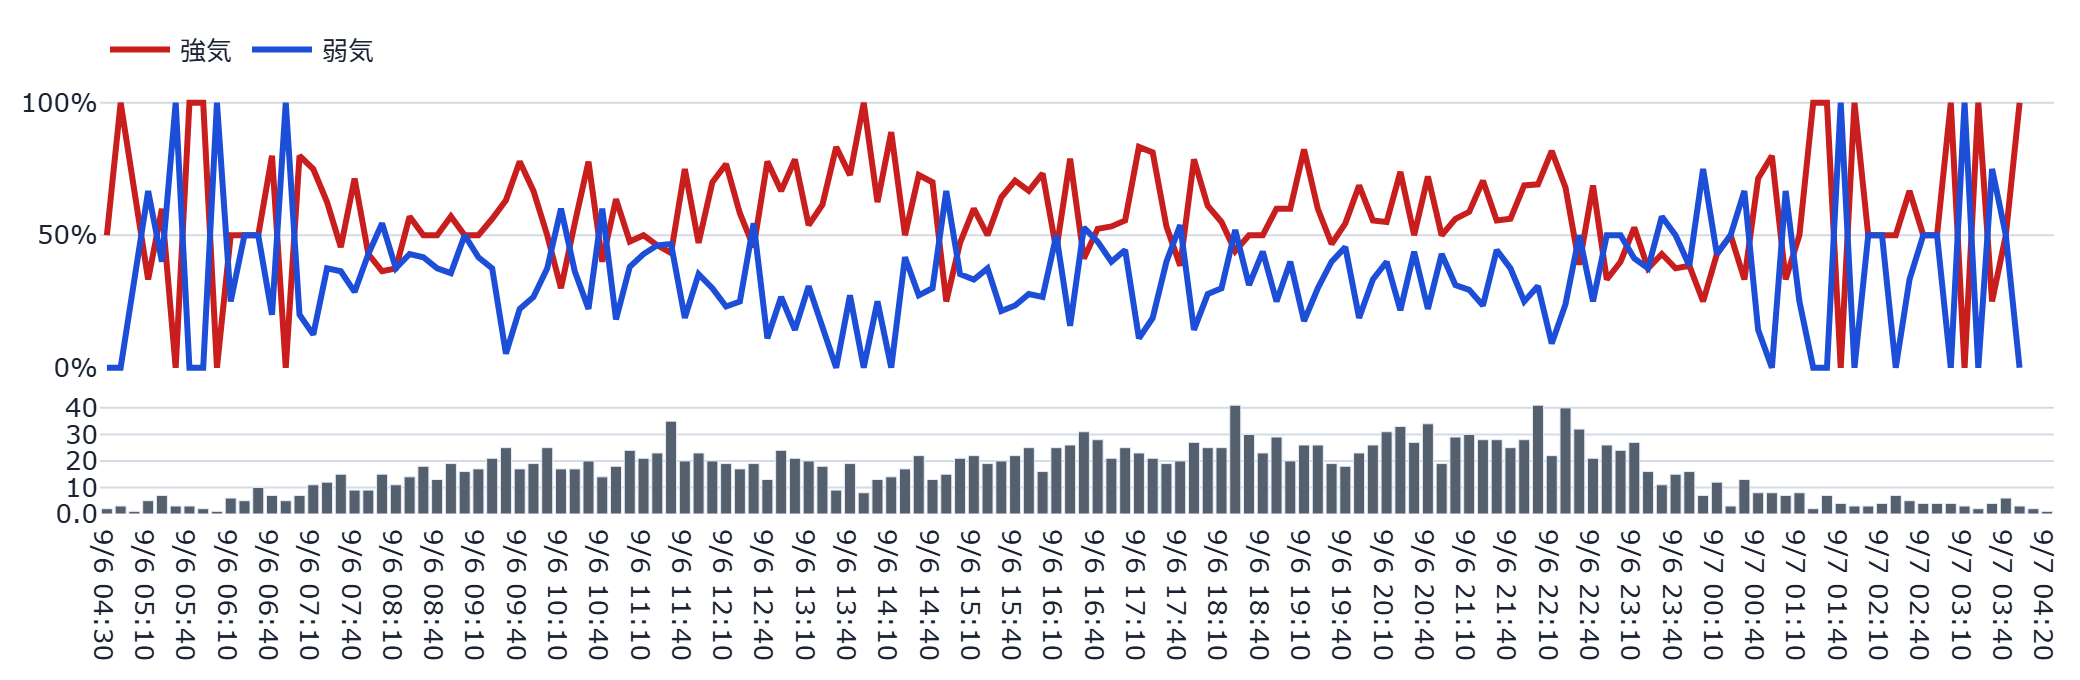
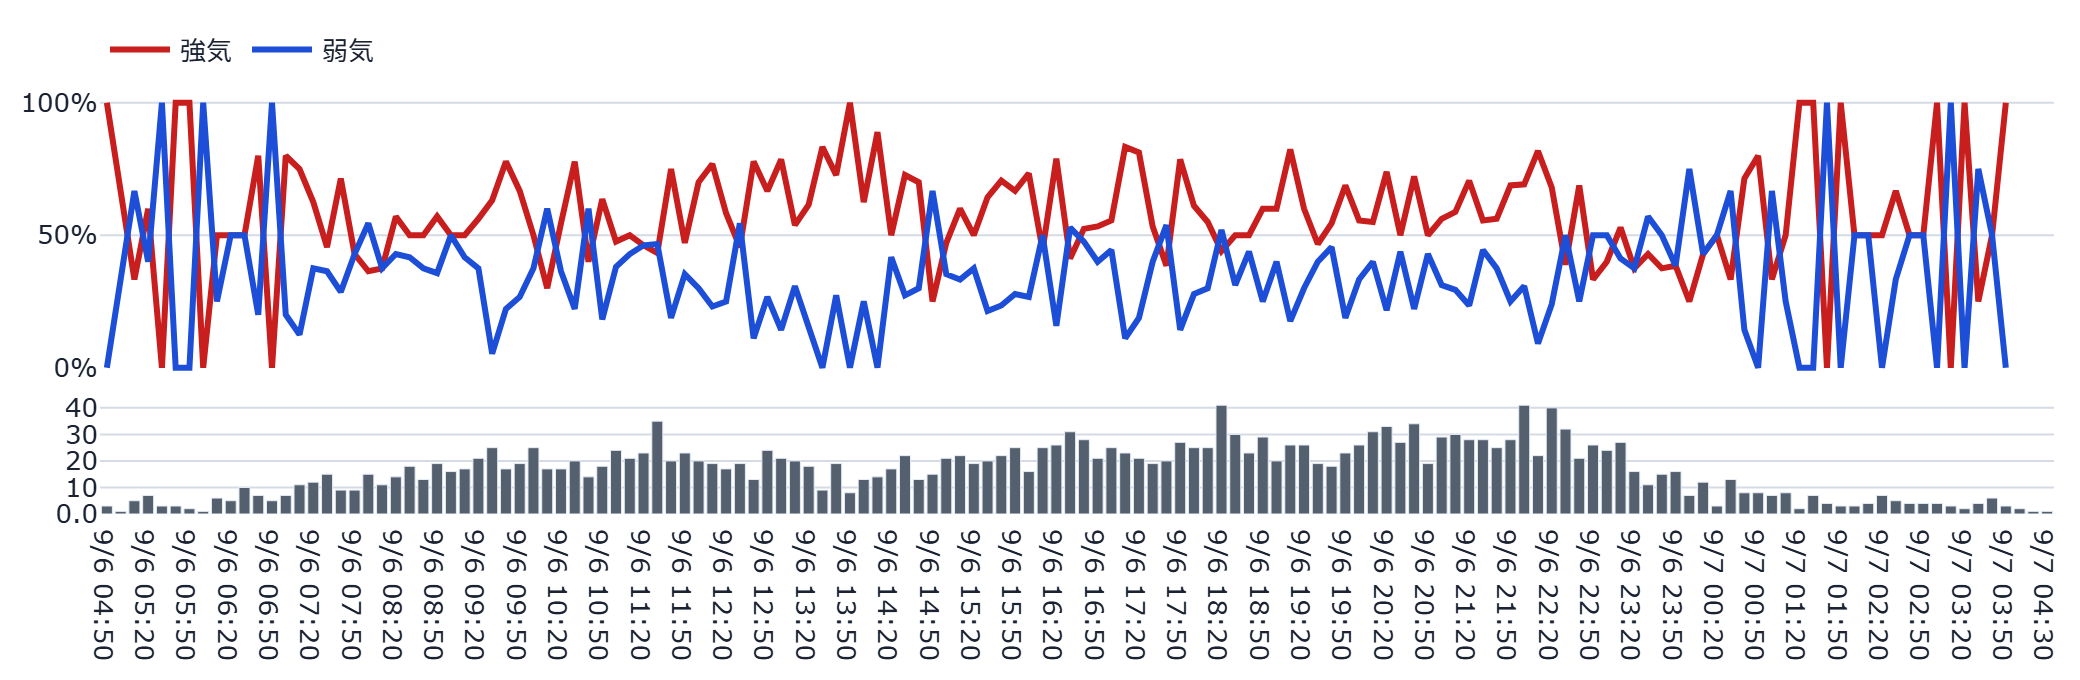
auto: refresh static dashboard (2026-09-07 04:46:47 JST)

Changed region(s): [[0.0312, 0.1544, 1.0, 0.5559], [0.0625, 0.5868, 0.9688, 0.7721], [0.0625, 0.9265, 0.9688, 0.9574]]

diff --git a/docs/index.html b/docs/index.html
@@ -125,7 +125,7 @@
         <span class="price">54,460円</span>
         <span class="chg" style="color:#8B94A3">—</span>
       </div>
-      <p class="caption">更新時刻: 2026-09-07T04:34:23（データは1分間隔で自動生成され、このページも
+      <p class="caption">更新時刻: 2026-09-07T04:44:21（データは1分間隔で自動生成され、このページも
       60秒毎に自動再読み込みされます）</p>
       
       <p id='visit-count-badge' class='caption'>👀 累計閲覧数: 2,968</p>
@@ -170,7 +170,7 @@
 <div class='signal-row'><div class='signal-name'>イナゴ語彙(euphoria)<div class='signal-desc'>「爆上げ」「握力」等、熱狂・便乗を示す語彙が投稿にどれだけ含まれるか。</div></div><div class='signal-meta'><div class='signal-note'>euphoria指数3.7/100投稿</div><div><span style='display:inline-block;border-radius:999px;padding:2px 10px;font-size:.82em;font-weight:600;color:#fff;background:#15803D;white-space:nowrap'>OK (現在値3.70 / 閾値&gt;=5.5/100投稿)</span></div><div class='signal-spark'><figure><img src='images/spark_signal_2.png' alt='イナゴ語彙(euphoria)の推移' loading='lazy'></figure></div></div></div>
 <div class='signal-row'><div class='signal-name'>ネームド集中<div class='signal-desc'>特定の常連投稿者(ハッシュ化ID)に投稿が偏っていないか(少数の声が目立ちすぎていないか)。</div></div><div class='signal-meta'><div class='signal-note'>上位5人シェア18%</div><div><span style='display:inline-block;border-radius:999px;padding:2px 10px;font-size:.82em;font-weight:600;color:#fff;background:#C81E1E;white-space:nowrap'>発火 (現在値0.18 / 閾値&gt;=0.1)</span></div><div class='signal-spark'><figure><img src='images/spark_signal_3.png' alt='ネームド集中の推移' loading='lazy'></figure></div></div></div>
 <div class='signal-row'><div class='signal-name'>他銘柄混入率<div class='signal-desc'>本銘柄の掲示板で他の銘柄コードへの言及がどれだけ多いか(関心が他へ移りつつあるサイン)。</div></div><div class='signal-meta'><div class='signal-note'>他銘柄言及5% (関心離散のサイン)</div><div><span style='display:inline-block;border-radius:999px;padding:2px 10px;font-size:.82em;font-weight:600;color:#fff;background:#15803D;white-space:nowrap'>OK (現在値0.05 / 閾値&gt;=0.11)</span></div><div class='signal-spark'><figure><img src='images/spark_signal_4.png' alt='他銘柄混入率の推移' loading='lazy'></figure></div></div></div>
-<div class='signal-row'><div class='signal-name'>暴落煽り語彙<div class='signal-desc'>「暴落」「終わった」等、悲観・煽りを示す語彙が投稿にどれだけ含まれるか。</div></div><div class='signal-meta'><div class='signal-note'>煽り指数4.5/100投稿</div><div><span style='display:inline-block;border-radius:999px;padding:2px 10px;font-size:.82em;font-weight:600;color:#fff;background:#C2570B;white-space:nowrap'>警戒 (現在値4.50 / 閾値&gt;=5.0/100投稿)</span></div><div class='signal-spark'><figure><img src='images/spark_signal_5.png' alt='暴落煽り語彙の推移' loading='lazy'></figure></div></div></div>
+<div class='signal-row'><div class='signal-name'>暴落煽り語彙<div class='signal-desc'>「暴落」「終わった」等、悲観・煽りを示す語彙が投稿にどれだけ含まれるか。</div></div><div class='signal-meta'><div class='signal-note'>煽り指数4.4/100投稿</div><div><span style='display:inline-block;border-radius:999px;padding:2px 10px;font-size:.82em;font-weight:600;color:#fff;background:#C2570B;white-space:nowrap'>警戒 (現在値4.40 / 閾値&gt;=5.0/100投稿)</span></div><div class='signal-spark'><figure><img src='images/spark_signal_5.png' alt='暴落煽り語彙の推移' loading='lazy'></figure></div></div></div>
 <div class='signal-row'><div class='signal-name'>阿鼻叫喚(セリクラ)<div class='signal-desc'>株価が安値圏にある中で悲観語彙が急増しているか(セリングクライマックスの兆候)。</div></div><div class='signal-meta'><div class='signal-note'>阿鼻叫喚スコア0.0 安値圏外</div><div><span style='display:inline-block;border-radius:999px;padding:2px 10px;font-size:.82em;font-weight:600;color:#fff;background:#15803D;white-space:nowrap'>OK (現在値0.00 / 閾値&gt;30)</span></div><div class='signal-spark'><figure><img src='images/spark_signal_6.png' alt='阿鼻叫喚(セリクラ)の推移' loading='lazy'></figure></div></div></div>
 <div class='signal-row'><div class='signal-name'>話題枯れ<div class='signal-desc'>過去の平均と比べて本日の投稿数が著しく少ないか(閑散・関心低下のサイン)。</div></div><div class='signal-meta'><div class='signal-note'>投稿数z=-1.23 (負=閑散)</div><div><span style='display:inline-block;border-radius:999px;padding:2px 10px;font-size:.82em;font-weight:600;color:#fff;background:#C81E1E;white-space:nowrap'>発火 (現在値-1.23 / 閾値z&lt;-1)</span></div><div class='signal-spark'><figure><img src='images/spark_signal_7.png' alt='話題枯れの推移' loading='lazy'></figure></div></div></div>
 <div class='signal-row'><div class='signal-name'>投稿サージ<div class='signal-desc'>過去の平均と比べて本日の投稿数が著しく多いか(急な注目集中のサイン)。</div></div><div class='signal-meta'><div class='signal-note'>投稿数z=-1.23 (量→ボラ予測が文献の主結果)</div><div><span style='display:inline-block;border-radius:999px;padding:2px 10px;font-size:.82em;font-weight:600;color:#fff;background:#15803D;white-space:nowrap'>OK (現在値-1.23 / 閾値z&gt;2)</span></div><div class='signal-spark'><figure><img src='images/spark_signal_8.png' alt='投稿サージの推移' loading='lazy'></figure></div></div></div></div>
@@ -218,22 +218,22 @@
       </div>
 
       <h2>🤖 AI考察</h2>
-      <div class='metric-row'><div class='metric-card'><div class='metric-label'>株価</div><div class='metric-value'>54,460円</div><div class='metric-delta'>+0円</div></div><div class='metric-card'><div class='metric-label'>強気比率</div><div class='metric-value'>53.3%</div><div class='metric-delta'>+0.0pt</div></div><div class='metric-card'><div class='metric-label'>弱気比率</div><div class='metric-value'>40.0%</div><div class='metric-delta'>+0.0pt</div></div></div><p class='caption'>前回集計(2026-09-07T04:29:14)との比較</p>
-      <div class='ai-box'>本日の寄り付き前におけるキオクシアホールディングス（285A）の掲示板センチメントを分析します。<br>
+      <div class='metric-row'><div class='metric-card'><div class='metric-label'>株価</div><div class='metric-value'>54,460円</div><div class='metric-delta'>+0円</div></div><div class='metric-card'><div class='metric-label'>強気比率</div><div class='metric-value'>53.3%</div><div class='metric-delta'>+0.0pt</div></div><div class='metric-card'><div class='metric-label'>弱気比率</div><div class='metric-value'>40.0%</div><div class='metric-delta'>+0.0pt</div></div></div><p class='caption'>前回集計(2026-09-07T04:34:23)との比較</p>
+      <div class='ai-box'>本日の寄り付きを前にしたキオクシアホールディングス（285A）の掲示板におけるセンチメントデータに基づき、現状の市場心理を分析します。<br>
 <br>
-直近の価格推移と掲示板の反応を照らし合わせると、非常に特徴的な動きが見て取れます。まず注目すべきは、強気比率が53.3%と過半数を超えつつも、過熱度スコア（18.7）やイナゴ語彙指数が平常範囲内にある点です。通常、強気姿勢が目立つ局面では過熱を伴うことが多いですが、現在は「熱狂」というよりは、落ち着いたトーンでの期待感、あるいは現状の価格水準に対する一定の支持がある状態と推察されます。<br>
+直近の日次推移を見ると、価格と強気比率は連動しながら推移しており、特に9月4日には前週比で強気比率が大きく上昇し、現在の水準を形成しています。最新の集計では強気比率が53.3%となっており、過熱度スコアは18.7と低水準に留まっていることから、掲示板上での期待感は高まりつつあるものの、まだ統計的な「熱狂」には至っていない状態が見て取れます。<br>
 <br>
-一方で、シグナル発火状況には特筆すべき変化があります。「ネームド集中」が発火し、「話題枯れ」も同時に発火している点は重要です。これは、特定の熱心な投稿者層による議論が中心となっており、新規の関心が広がる「拡散」のフェーズではなく、限定的なコミュニティ内での深化が進んでいることを示唆しています。また、前回集計から「暴落煽り語彙」が警戒水準に上昇していることは、強気な姿勢を維持する一方で、一部でリスクに対する敏感な反応や、ネガティブなシナリオへの備えが意識され始めている心理的背景を映し出している可能性があります。<br>
+一方で、シグナル発火状況を詳細に見ると、特筆すべき変化が確認できます。前回取引日と比較して「ネームド集中」が警戒から発火へと移行しており、特定の意見を持つ層の存在感が強まっていることが示唆されます。また、「話題枯れ」の発火や投稿速度の低さは、広範な投資家層による活発な議論よりも、限定的なコミュニティ内での反応に終始している可能性を推測させます。さらに「暴落煽り語彙」が警戒水準にあることは、強気な姿勢の一方で、一部でネガティブな反応を引き起こす要因も潜在していることを示しています。<br>
 <br>
-ボラティリティについては現在「calibrating（較正中）」となっており、センチメントの強さとボラの相関を断定的に判断するには慎重さが必要です。しかし、前営業日からの変化を見ると、過熱度が低下しつつもネームド集中が強まっていることから、掲示板内の議論はより内省的・専門的な内容へとシフトしている可能性が見て取れます。<br>
+ボラティリティのレジーム帯は現在「calibrating（較正中）」となっており、現在のセンチメントの安定感と相関する明確なボラティリティの基準が確定していない状況です。また、取引時間外のPTSや米国ADRでは前営業日の終値を大きく上回る動きを見せており、この外部環境の変化が寄り付き後の掲示板の反応にどう影響するか注目されます。<br>
 <br>
-なお、取引時間外のPTSや米国ADRでは、前日の終値を大きく上回る動き（約6%超）を記録しています。これら市場外の動向と、掲示板上の「話題枯れ」という静かなセンチメントとの間に乖離がある点は、本日の寄り付きに向けた注目点と言えます。<br>
+総じて、現在のセンチメントは「広範な熱狂」というよりは、「特定の層による集中した関心と、それに対する限定的な反発」が混在する構図といえます。<br>
 <br>
-本分析は、掲示板の集計センチメントデータに基づく分析であり、投資助言ではありません。</div><p class='caption'>生成時刻: 2026-09-07T04:34:23</p>
+本分析は掲示板の集計センチメントデータに基づく分析であり、投資助言ではありません。</div><p class='caption'>生成時刻: 2026-09-07T04:44:21</p>
 
       <hr style="border:none;border-top:1px solid var(--border);margin:2rem 0 1rem">
       <p class="caption">⚠ 本情報は掲示板投稿を統計的に集計したものであり、投資助言ではありません。個別の投稿内容は含まれていません。研究・エンタメ用途です。</p>
-      <footer>生成: generate_static_dashboard.py（2026-09-07T04:44:57） /
+      <footer>生成: generate_static_dashboard.py（2026-09-07T04:46:41） /
       画像バックエンド: plotly+kaleido</footer>
     </div>
     <script>(function(){var url="https://script.google.com/macros/s/AKfycbwgSSGQ2n56ohmIYKlNDA1Xe3D8hd3GJbD0U90L4DGtXdb8pqrPokNMHJWjvN1__7bE/exec";var KEY='bbs_visit_counted';var already=sessionStorage.getItem(KEY);var action=already?'read':'hit';var ctrl=(typeof AbortController!=='undefined')?new AbortController():null;var timer=ctrl?setTimeout(function(){ctrl.abort();},5000):null;fetch(url+'?action='+action,{signal:ctrl?ctrl.signal:undefined}).then(function(r){if(timer)clearTimeout(timer);return r.json();}).then(function(data){if(!already)sessionStorage.setItem(KEY,'1');if(data&&typeof data.count==='number'){var el=document.getElementById('visit-count-badge');if(el){el.textContent='\u{1F440} \u7d2f\u8a08\u95b2\u89a7\u6570: '+data.count.toLocaleString();el.style.display='';}}}).catch(function(e){if(timer)clearTimeout(timer);console.warn('visit counter fetch failed (fail-soft):',e);});})();</script><script>(function(){var url="https://script.google.com/macros/s/AKfycbwgSSGQ2n56ohmIYKlNDA1Xe3D8hd3GJbD0U90L4DGtXdb8pqrPokNMHJWjvN1__7bE/exec";var KEY='bbs_liked';var btn=document.getElementById('like-button');var label=document.getElementById('like-count-label');if(!btn||!label)return;function renderLiked(count){btn.disabled=true;btn.style.cursor='default';btn.style.opacity='0.6';btn.textContent='\u2705';label.textContent="\u3044\u3044\u306d\u3057\u307e\u3057\u305f\uff01"+(typeof count==='number'?"\uff08\u7d2f\u8a08 "+count.toLocaleString()+" \u3044\u3044\u306d\uff09":'');}if(localStorage.getItem(KEY)){renderLiked(null);}btn.addEventListener('click',function(){if(localStorage.getItem(KEY))return;btn.disabled=true;var ctrl=(typeof AbortController!=='undefined')?new AbortController():null;var timer=ctrl?setTimeout(function(){ctrl.abort();},5000):null;fetch(url+'?action=like_hit',{signal:ctrl?ctrl.signal:undefined}).then(function(r){if(timer)clearTimeout(timer);return r.json();}).then(function(data){localStorage.setItem(KEY,'1');renderLiked(data&&typeof data.count==='number'?data.count:null);}).catch(function(e){if(timer)clearTimeout(timer);btn.disabled=false;console.warn('like button fetch failed (fail-soft):',e);});});})();</script></body></html>
